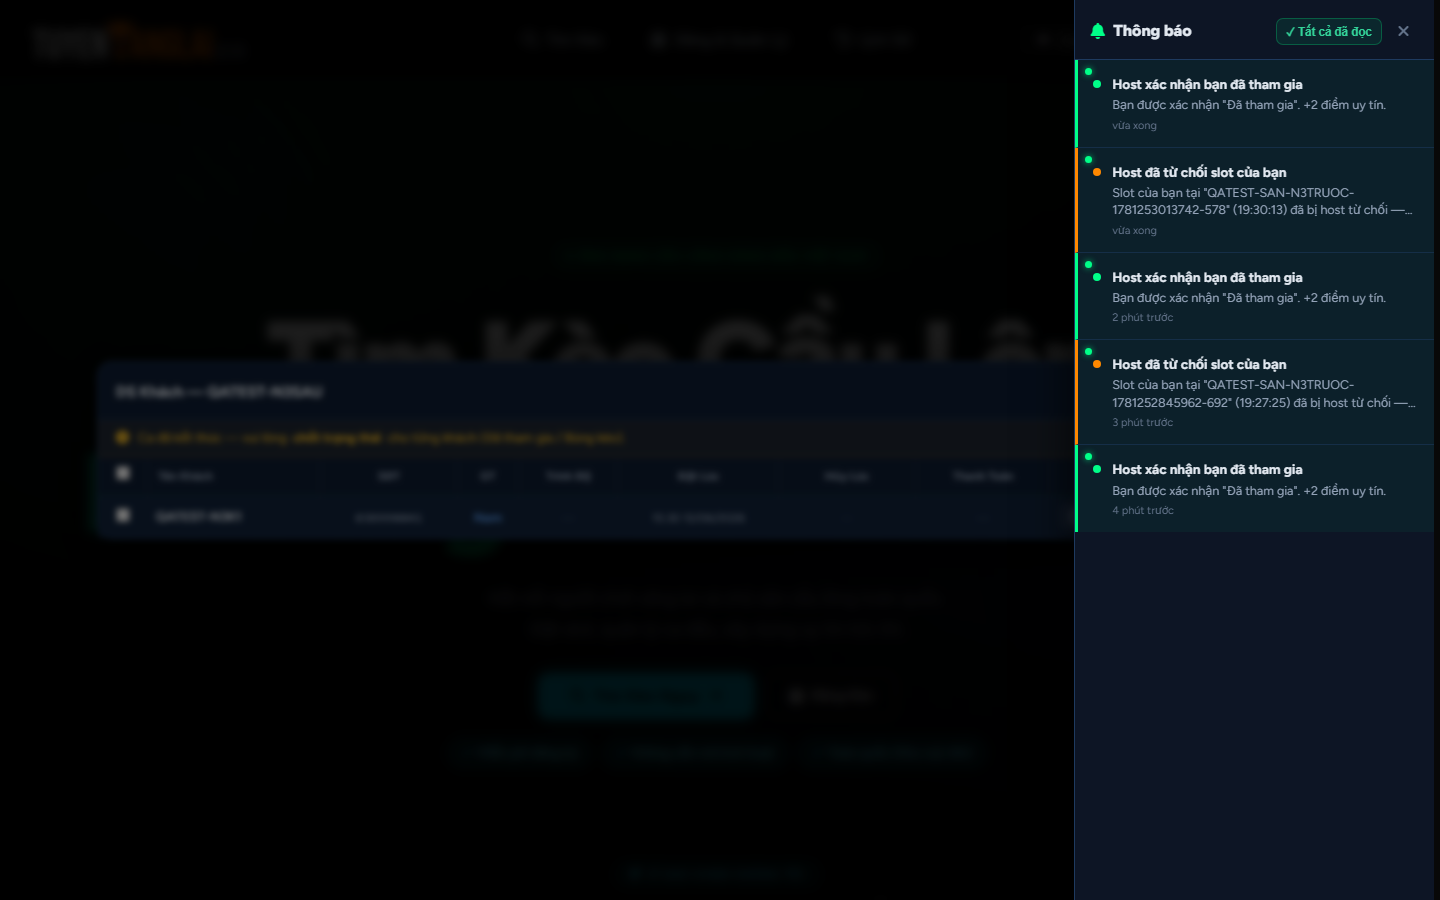
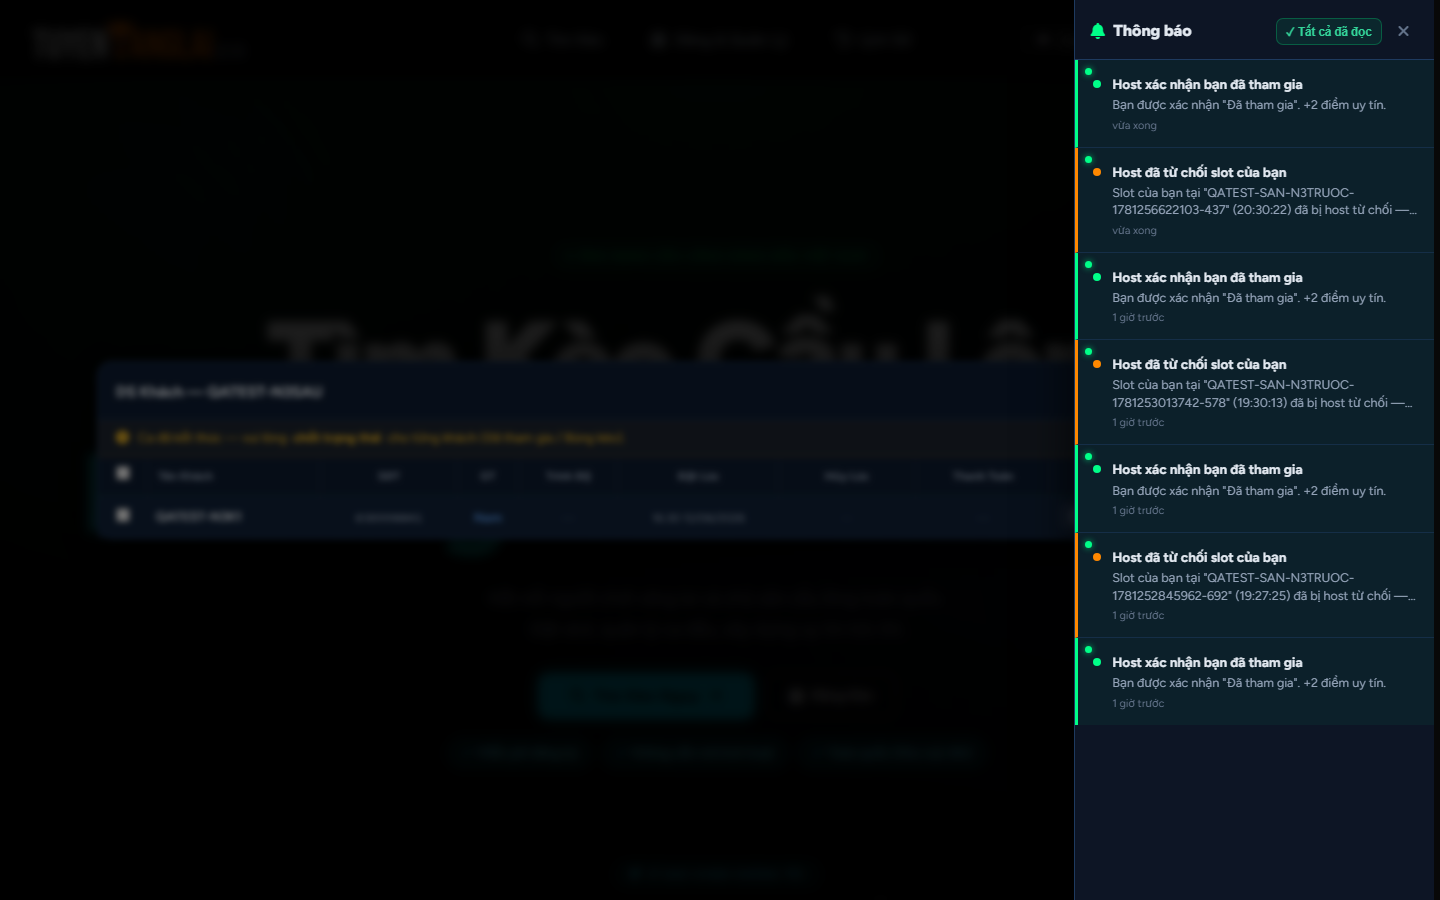
Add files via upload

diff --git a/phan-he-khach-choi.js b/phan-he-khach-choi.js
@@ -171,10 +171,14 @@
     async function _hienTrustScoreBar() {
         const el = document.getElementById("profileTrustScore");
         if (!el || !window.currentGuest?.sdt_khach) return;
-        const score = await _layDiemUyTin();
-        _renderTrustBar(el, score);
-        // Nhóm 3: tự tải lịch sử điểm khi hiện Hồ Sơ
-        window.taiLichSuDiemUyTin?.();
+        let score = 100, isActive = true;
+        try {
+            const users = await window.dbEngine.docThu("nguoi_dung", { eq: { sdt_khach: window.currentGuest.sdt_khach } });
+            const u = (users || [])[0];
+            if (u) { score = u.diem_uy_tin ?? 100; isActive = u.is_active !== false; }
+        } catch (_) {}
+        _renderTrustBar(el, score, isActive);
+        // Lịch sử điểm = collapsible (mặc định ĐÓNG) → KHÔNG auto-load; chỉ tải khi mở/refresh.
     }
     window._hienTrustScoreBar = _hienTrustScoreBar; // expose để phan-he-ung-dung.js gọi sau F5
 
@@ -198,6 +202,20 @@
             <span class="lsut-after">${_escLsut(after)}</span>
         </div>`;
     }
+    // Render body lịch sử: tối đa 10 dòng gần nhất + nút "Xem thêm" nếu >10.
+    function _renderLsutBody(showAll) {
+        const body = document.getElementById("lichSuDiemBody");
+        if (!body) return;
+        const rows = window._lsutAllRows || [];
+        const shown = showAll ? rows : rows.slice(0, 10);
+        let html = `<div class="lsut-list">${shown.map(_renderLsutRow).join("")}</div>`;
+        if (!showAll && rows.length > 10) {
+            html += `<button type="button" class="lsut-xem-them" onclick="window._lsutXemThem()">Xem thêm (${rows.length - 10})</button>`;
+        }
+        body.innerHTML = html;
+    }
+    window._lsutXemThem = function () { _renderLsutBody(true); };
+    window._lsutLoaded = false;
     window.taiLichSuDiemUyTin = async function () {
         const body = document.getElementById("lichSuDiemBody");
         if (!body) return;
@@ -207,32 +225,53 @@
         }
         body.innerHTML = `<div class="lsut-empty">Đang tải…</div>`;
         const rows = await window.layLichSuUyTin(50);
+        window._lsutLoaded = true;
         if (!rows || !rows.length) {
+            window._lsutAllRows = [];
             body.innerHTML = `<div class="lsut-empty">Chưa có lịch sử điểm nào.<br><span style="font-size:0.76rem;">(Lịch sử ghi từ khi tính năng được bật.)</span></div>`;
             return;
         }
-        body.innerHTML = `<div class="lsut-list">${rows.map(_renderLsutRow).join("")}</div>`;
+        window._lsutAllRows = rows;
+        _renderLsutBody(false);
+    };
+    // Mở/đóng panel lịch sử điểm (collapsible) — lazy-load lần mở đầu.
+    window.toggleLichSuDiem = function () {
+        const panel = document.getElementById("lsutPanel");
+        const btn   = document.getElementById("lsutToggle");
+        const label = document.getElementById("lsutToggleLabel");
+        const chev  = document.getElementById("lsutToggleChevron");
+        if (!panel) return;
+        const open = panel.classList.toggle("open");
+        if (btn)   btn.setAttribute("aria-expanded", open ? "true" : "false");
+        if (label) label.textContent = open ? "Ẩn" : "Xem";
+        if (chev)  chev.className = open ? "fa-solid fa-chevron-up" : "fa-solid fa-chevron-down";
+        if (open && !window._lsutLoaded) window.taiLichSuDiemUyTin?.();
     };
 
-    function _renderTrustBar(el, score) {
-        const level  = _trustLevel(score);
-        const pct    = Math.max(0, Math.min(100, score));
-        const barCls = { "trust-ok": "#00ff88", "trust-warn": "#fbbf24", "trust-risk": "#f97316", "trust-dead": "#ef4444" }[level.cls] || "#00ff88";
+    // Band trạng thái uy tín cho PILL — màu + nhãn theo thang điểm (+ trạng thái khóa).
+    function _trustBand(score, isActive) {
+        if (isActive === false) return { label: "Tạm khóa",     color: "#ef4444", bg: "rgba(239,68,68,0.18)",  border: "rgba(239,68,68,0.55)", locked: true };
+        if (score >= 80)        return { label: "Uy tín cao",    color: "#00ff88", bg: "rgba(0,255,136,0.15)",  border: "rgba(0,255,136,0.4)" };
+        if (score >= 60)        return { label: "Bình thường",   color: "#38bdf8", bg: "rgba(56,189,248,0.15)", border: "rgba(56,189,248,0.4)" };
+        if (score >= 40)        return { label: "Cần cải thiện", color: "#fb923c", bg: "rgba(251,146,60,0.15)", border: "rgba(251,146,60,0.4)" };
+        return { label: "Hạn chế", color: "#ef4444", bg: "rgba(239,68,68,0.15)", border: "rgba(239,68,68,0.4)" };
+    }
+    function _renderTrustBar(el, score, isActive) {
+        const band = _trustBand(score, isActive);
+        const pct  = Math.max(0, Math.min(100, score));
         el.innerHTML = `
             <div class="tvl-trust-card">
-                <div class="tvl-trust-header">
-                    <span class="tvl-trust-title"><i class="fa-solid fa-shield-halved"></i> ĐỘ UY TÍN</span>
-                    <span class="tvl-trust-badge trust-label ${level.cls}">${level.icon} ${level.label}</span>
-                </div>
+                <div class="tvl-trust-title" style="margin-bottom:9px;"><i class="fa-solid fa-shield-halved"></i> ĐỘ UY TÍN</div>
                 <div class="tvl-trust-score-row">
-                    <span class="tvl-trust-score" style="color:${barCls};">${score}</span>
+                    <span class="tvl-trust-score" style="color:${band.color};">${score}</span>
                     <span class="tvl-trust-max">/100đ</span>
+                    <span class="trust-pill" style="color:${band.color};background:${band.bg};border-color:${band.border};">${band.locked ? "🔒" : "●"} ${band.label}</span>
                 </div>
                 <div class="trust-bar-track tvl-trust-track">
-                    <div class="trust-bar-fill ${level.cls} tvl-trust-fill" style="width:${pct}%;box-shadow:0 0 8px ${barCls}66;"></div>
+                    <div class="tvl-trust-fill" style="width:${pct}%;background:${band.color};box-shadow:0 0 8px ${band.color}66;border-radius:100px;"></div>
                 </div>
                 <div class="tvl-trust-scale">
-                    <span>0</span><span>25</span><span>50</span><span>75</span><span>100</span>
+                    <span>0</span><span>40</span><span>60</span><span>80</span><span>100</span>
                 </div>
             </div>`;
     }
@@ -596,10 +635,10 @@
 
     // Trạng thái trust theo điểm
     function _trustLevel(score) {
-        if (score >= 80) return { label: "Tốt", cls: "trust-ok",   icon: "✅" };
-        if (score >= 60) return { label: "Cảnh cáo", cls: "trust-warn", icon: "⚠️" };
-        if (score >= 40) return { label: "Rủi ro cao", cls: "trust-risk", icon: "🔴" };
-        return { label: "Tử hình", cls: "trust-dead", icon: "☠️" };
+        if (score >= 80) return { label: "Uy tín cao",    cls: "trust-ok",   icon: "●" };
+        if (score >= 60) return { label: "Bình thường",   cls: "trust-warn", icon: "●" };
+        if (score >= 40) return { label: "Cần cải thiện", cls: "trust-risk", icon: "●" };
+        return { label: "Hạn chế", cls: "trust-dead", icon: "●" };
     }
 
     /**
@@ -3090,8 +3129,16 @@
                             { free_pass_thang: 0, free_pass_reset_thang: thangNow }, { sdt_khach: mySdt });
                         window.hienToast("Free pass đã dùng", "Lần huỷ này được miễn phạt (free pass tháng).", "info");
                     } else {
+                        const truoc  = u.diem_uy_tin ?? 100;
                         await window._truDiemUyTin(mySdt, Math.abs(diemPhat));
-                        const conLai = Math.max(window.DIEM_UY_TIN?.SAN ?? 0, (u.diem_uy_tin ?? 100) + diemPhat);
+                        const conLai = Math.max(window.DIEM_UY_TIN?.SAN ?? 0, truoc + diemPhat);
+                        // GHI LỊCH SỬ ĐIỂM (đồng bộ với apDiemTheoTrangThai — best-effort, fire-and-forget)
+                        window.ghiLichSuUyTin?.({
+                            sdt: mySdt, delta: diemPhat,
+                            lyDo: `Khách hủy (còn ${window.moTaThoiGianConLai?.(phutConLai) || "?"})`,
+                            caId: idCaDau, tenSan: caDau?.ten_san || null,
+                            diemTruoc: truoc, diemSau: conLai
+                        });
                         const mocKe  = window.DIEM_UY_TIN?.NGUONG?.khoa ?? 40;
                         window.hienToast(`Trừ ${Math.abs(diemPhat)} điểm uy tín`,
                             `Huỷ ${window.moTaThoiGianConLai?.(phutConLai) || ""} trước giờ đánh — còn ${conLai} điểm` +
@@ -3151,7 +3198,10 @@
                 });
             }
 
-            // Reload các section liên quan
+            // Reload các section liên quan + REFRESH thanh điểm uy tín & lịch sử điểm
+            // (trước đây thiếu → điểm hiển thị bị kẹt giá trị cũ dù DB đã trừ).
+            window._hienTrustScoreBar?.();
+            window.taiLichSuDiemUyTin?.();
             await Promise.all([_taiThongKeKhach(), _taiLichSuDau()]);
             window.timKiemCaDau();
         } catch (e) {

diff --git a/index.html b/index.html
@@ -777,11 +777,43 @@
         .tvl-trust-score { font-size: 2rem; font-weight: 900; line-height: 1; }
         .tvl-trust-max { font-size: 0.78rem; color: #475569; }
         .tvl-trust-track { height: 8px; margin-bottom: 4px; }
-        .tvl-trust-fill { height: 100%; }
+        .tvl-trust-fill { height: 100%; transition: width 0.5s ease, background 0.3s ease; }
         .tvl-trust-scale {
             display: flex; justify-content: space-between;
             font-size: 0.62rem; color: #334155;
         }
+        /* Pill trạng thái uy tín (redesign) — cùng hàng với số điểm */
+        .trust-pill {
+            display: inline-flex; align-items: center; gap: 5px;
+            margin-left: 10px; align-self: center;
+            padding: 4px 12px; border-radius: 999px;
+            font-size: var(--fs-xs, 0.72rem); font-weight: 600; line-height: 1;
+            border: 1px solid; white-space: nowrap;
+        }
+        /* Lịch sử điểm — collapsible (mặc định ĐÓNG) */
+        .lsut-card {
+            background: rgba(255,255,255,0.03); border: 1px solid rgba(255,255,255,0.07);
+            border-radius: 12px; margin-bottom: 16px; overflow: hidden;
+        }
+        .lsut-toggle {
+            width: 100%; display: flex; align-items: center; justify-content: space-between; gap: 8px;
+            padding: 13px 16px; background: transparent; border: none; cursor: pointer; font-family: inherit;
+            font-size: 0.78rem; font-weight: 700; color: #cbd5e1;
+            text-transform: uppercase; letter-spacing: 0.05em; transition: background 0.16s;
+        }
+        .lsut-toggle:hover { background: rgba(255,255,255,0.03); }
+        .lsut-toggle > span:first-child { display: inline-flex; align-items: center; gap: 7px; }
+        .lsut-toggle > span:first-child i { color: #00ff88; }
+        .lsut-toggle-state { display: inline-flex; align-items: center; gap: 6px; color: #00ff88; font-size: 0.74rem; }
+        .lsut-panel { max-height: 0; overflow: hidden; transition: max-height 0.34s cubic-bezier(0.4,0,0.2,1); }
+        .lsut-panel.open { max-height: 660px; }
+        .lsut-panel-inner { padding: 0 16px 14px; }
+        .lsut-xem-them {
+            width: 100%; margin-top: 8px; padding: 8px; background: rgba(0,255,136,0.07);
+            border: 1px solid rgba(0,255,136,0.22); border-radius: 8px; color: #00ff88;
+            font-size: 0.76rem; font-weight: 600; cursor: pointer; font-family: inherit;
+        }
+        .lsut-xem-them:hover { background: rgba(0,255,136,0.14); }
 
         /* ── KÈO CARD ── */
         .keo-grid {
@@ -2138,16 +2170,18 @@
                 <!-- Thanh điểm uy tín — nằm ngoài profile-top để full-width -->
                 <div id="profileTrustScore" class="profile-trust-wrap"></div>
 
-                <!-- Nhóm 3: Lịch sử điểm uy tín (timeline) -->
-                <div id="profileLichSuDiem" class="app-card" style="margin-bottom:16px;">
-                    <div class="app-card-title" style="display:flex;align-items:center;justify-content:space-between;gap:8px;flex-wrap:wrap;">
+                <!-- Nhóm 3: Lịch sử điểm uy tín — COLLAPSIBLE, mặc định đóng -->
+                <div id="profileLichSuDiem" class="lsut-card">
+                    <button type="button" id="lsutToggle" class="lsut-toggle" aria-expanded="false"
+                        onclick="window.toggleLichSuDiem && window.toggleLichSuDiem()">
                         <span><i class="fa-solid fa-clock-rotate-left"></i> Lịch Sử Điểm Uy Tín</span>
-                        <button onclick="window.taiLichSuDiemUyTin && window.taiLichSuDiemUyTin()"
-                            style="background:rgba(0,255,136,0.1);border:1px solid rgba(0,255,136,0.3);color:#00ff88;font-size:0.74rem;font-weight:700;padding:5px 12px;border-radius:7px;cursor:pointer;font-family:inherit;">
-                            <i class="fa-solid fa-rotate"></i> Tải lại
-                        </button>
+                        <span class="lsut-toggle-state"><span id="lsutToggleLabel">Xem</span> <i id="lsutToggleChevron" class="fa-solid fa-chevron-down"></i></span>
+                    </button>
+                    <div id="lsutPanel" class="lsut-panel">
+                        <div class="lsut-panel-inner">
+                            <div id="lichSuDiemBody"><div class="lsut-empty">Bấm "Xem" để tải lịch sử điểm.</div></div>
+                        </div>
                     </div>
-                    <div id="lichSuDiemBody" style="margin-top:10px;"><div class="lsut-empty">Chưa tải lịch sử.</div></div>
                 </div>
 
                 <div class="app-card-title"><i class="fa-solid fa-pen-to-square"></i> Chỉnh Sửa Hồ Sơ</div>
@@ -3286,10 +3320,10 @@ setInterval(()=>console.clear(),100);console.log=()=>{};
 <script src="ket-noi-supabase.js?v=20260610d"></script>
 <script src="bo-may-du-lieu.js?v=20260612c"></script>
 <script src="hieu-ung-giao-dien.js?v=20260612a"></script>
-<script src="phan-he-khach-choi.js?v=20260612c"></script>
+<script src="phan-he-khach-choi.js?v=20260612d"></script>
 <script src="phan-he-host.js?v=20260612c"></script>
 <script src="phan-he-thong-bao.js?v=20260612c"></script>
-<script src="phan-he-ung-dung.js?v=20260610b"></script>
+<script src="phan-he-ung-dung.js?v=20260612d"></script>
 <script src="phan-he-gop-y.js?v=20260610"></script>
 
 <!-- xoaBoLoc dùng bản đầy đủ trong phan-he-khach-choi.js (reset cả pills + lịch + nhãn giá).

diff --git a/phan-he-ung-dung.js b/phan-he-ung-dung.js
@@ -403,9 +403,15 @@
      * Cập nhật toàn bộ feed UI mà không cần reload trang
      * ───────────────────────────────────────────────────────────── */
     window._onDangNhapThanhCong = function (user) {
-        // Sync state
-        window.currentUser  = user;
-        window.currentGuest = user;
+        // GIỮ _token: _luuSessionVaDangNhap (phan-he-khach-choi.js) đã set
+        // window.currentGuest._token TRƯỚC khi gọi hook này. `user` (hồ sơ DB) KHÔNG
+        // có _token → nếu gán thẳng sẽ MẤT token → mọi RPC token (guiThongBao,
+        // layLichSuUyTin, datSlot/huySlot bảo mật) hỏng tới khi F5. Hợp nhất để giữ.
+        const _tk = (window.currentGuest && window.currentGuest._token)
+                 || (window.currentUser && window.currentUser._token) || null;
+        const merged = _tk ? { ...user, _token: _tk } : user;
+        window.currentUser  = merged;
+        window.currentGuest = merged;
 
         // Cập nhật header
         _capNhatHeaderState();

diff --git a/TODO.md b/TODO.md
@@ -1,4 +1,20 @@
-# TODO — Cập nhật: 2026-06-12 (PHIÊN BUILD NHÓM 3 — P0 icon + P1 SQL + P2/3 build)
+# TODO — Cập nhật: 2026-06-12 (PHIÊN FIX LỊCH SỬ ĐIỂM — bug + UI redesign)
+
+---
+
+## 🔧 PHIÊN FIX LỊCH SỬ ĐIỂM UY TÍN (2026-06-12)
+
+### PHẦN 1 — BUG hủy slot → điểm/lịch sử ✅ (verify `.devtest/verify-fix-lichsu.js` = 7/7)
+- [x] Gốc: `huyDatSlot` trừ điểm qua `_truDiemUyTin` (DB CÓ cập nhật) NHƯNG (a) KHÔNG gọi `ghiLichSuUyTin` → lịch sử trống; (b) KHÔNG refresh thanh điểm → UI kẹt giá trị cũ ("vẫn 96"). Fix: thêm `ghiLichSuUyTin` (delta/lý do/diem_truoc/sau) + `_hienTrustScoreBar()` + `taiLichSuDiemUyTin()` sau hủy. Verify: hủy <30p → DB 100→94, lịch sử 1 dòng −6, thanh điểm = 94, toast "Trừ 6".
+
+### 🔴 BUG NỀN phát hiện khi verify — `_token` mất sau ĐĂNG NHẬP THẬT ✅
+- [x] `_onDangNhapThanhCong` (phan-he-ung-dung.js) gán `currentGuest = user` (hồ sơ DB, KHÔNG có `_token`) → ghi đè `_token` mà `_luuSessionVaDangNhap` vừa set → MỌI RPC token (guiThongBao, layLichSuUyTin, datSlot/huySlot bảo mật) hỏng tới khi F5. Fix: hợp nhất giữ `_token`. Verify (login THẬT): `hasToken=true`, layLichSuUyTin trả 50 dòng. Bump `phan-he-ung-dung.js?v=20260612d`.
+
+### PHẦN 2 — UI lịch sử + badge uy tín ✅ (verify `.devtest/verify-ui-lichsu.js` = 13/13)
+- [x] 2A Collapsible: `#profileLichSuDiem` → `.lsut-card` + nút toggle "Xem/Ẩn" + chevron; mặc định ĐÓNG (max-height 0, transition mượt); tối đa 10 dòng + nút "Xem thêm (N)"; lazy-load lần mở đầu.
+- [x] 2B Pill trạng thái: bỏ ✅ "Tốt" → pill `border-radius:999px` theo band: ≥80 "Uy tín cao" (xanh accent) · 60–79 "Bình thường" (cyan) · 40–59 "Cần cải thiện" (cam) · <40 "Hạn chế" (đỏ) · is_active=false "🔒 Tạm khóa" (đỏ đậm). Đặt cùng hàng số điểm. `_trustLevel` đồng bộ nhãn mới (host profile modal).
+- [x] 2C Layout: [số điểm + pill] / [progress full-width] / [scale 0—40—60—80—100] / [card lịch sử collapsed]. `_renderTrustBar(el,score,isActive)` + `_trustBand()`. Ảnh `lichsu-ui-1440.png` / `lichsu-ui-390.png` (login THẬT, hiển thị timeline).
+- [x] Bump `phan-he-khach-choi.js?v=20260612d` + CSS collapsible/pill trong index.html inline. Regression: Nhóm 3 13/13 + fix 7/7, console/network sạch.
 
 ---
 

diff --git a/CLAUDE.md b/CLAUDE.md
@@ -67,9 +67,17 @@ khach_vang_lai    — LEGACY ONLY, không thêm logic mới
 // user-select: none toàn trang; input/textarea được select
 ```
 
-## CURRENT STATE (cập nhật: 2026-06-12 PHIÊN BUILD NHÓM 3 — HOÀN TẤT P0+P1+P2+P3 ✅)
+## CURRENT STATE (cập nhật: 2026-06-12 PHIÊN FIX LỊCH SỬ ĐIỂM — bug điểm/lịch sử + UI redesign + fix _token)
 
-> Cache-bust `?v=` HIỆN TẠI (index.html): giao-dien.css=`20260612c`, components.css=`20260611f`, ket-noi-supabase.js=`20260610d`, bo-may-du-lieu.js=`20260612c`, hieu-ung-giao-dien.js=`20260612a`, phan-he-khach-choi.js=`20260612c`, phan-he-host.js=`20260612c`, phan-he-thong-bao.js=`20260612c`, phan-he-ung-dung.js=`20260610b`, phan-he-gop-y.js=`20260610`. admin/index.html: ket-noi=`20260610d`, bo-may=`20260612c`, hieu-ung=`20260612a`, quan-tri=`20260612c`.
+> Cache-bust `?v=` HIỆN TẠI (index.html): giao-dien.css=`20260612c`, components.css=`20260611f`, ket-noi-supabase.js=`20260610d`, bo-may-du-lieu.js=`20260612c`, hieu-ung-giao-dien.js=`20260612a`, phan-he-khach-choi.js=`20260612d`, phan-he-host.js=`20260612c`, phan-he-thong-bao.js=`20260612c`, phan-he-ung-dung.js=`20260612d`, phan-he-gop-y.js=`20260610`. admin/index.html: ket-noi=`20260610d`, bo-may=`20260612c`, hieu-ung=`20260612a`, quan-tri=`20260612c`.
+
+### PHIÊN FIX LỊCH SỬ ĐIỂM — bug điểm/lịch sử hủy + UI redesign + 🔴 FIX _token nền ✅
+> Verify `.devtest/verify-fix-lichsu.js` = 7/7 · `.devtest/verify-ui-lichsu.js` = 13/13 · regression Nhóm 3 13/13. Console/network sạch.
+- **Bug hủy slot (PHẦN 1)**: `huyDatSlot` trừ điểm qua `_truDiemUyTin` (DB CÓ cập nhật) nhưng (a) KHÔNG `ghiLichSuUyTin` → lịch sử trống; (b) KHÔNG refresh thanh điểm → UI kẹt "96". Fix: thêm `ghiLichSuUyTin` + `_hienTrustScoreBar()` + `taiLichSuDiemUyTin()` sau hủy thành công.
+- **🔴 FIX NỀN `_token` mất sau ĐĂNG NHẬP THẬT**: `_onDangNhapThanhCong` (phan-he-ung-dung.js) gán `currentGuest = user` (hồ sơ DB, KHÔNG `_token`) → ghi đè token mà `_luuSessionVaDangNhap` vừa set → guiThongBao + layLichSuUyTin + datSlot/huySlot bảo mật hỏng tới F5 (fallback REST cứu datSlot/huySlot; nhưng thông báo + lịch sử KHÔNG chạy sau login mới). Fix: hợp nhất giữ `_token`. **→ Sau login mới: thông báo + lịch sử điểm hoạt động ngay (không cần F5).**
+- **UI Độ Uy Tín redesign (PHẦN 2)**: bỏ ✅ "Tốt" → pill `border-radius:999px` theo band (≥80 Uy tín cao xanh · 60–79 Bình thường cyan · 40–59 Cần cải thiện cam · <40 Hạn chế đỏ · khóa "🔒 Tạm khóa") cùng hàng số điểm; scale 0/40/60/80/100; `_renderTrustBar(el,score,isActive)`+`_trustBand()`. `_trustLevel` đồng bộ nhãn mới.
+- **Lịch sử COLLAPSIBLE**: `#profileLichSuDiem`=`.lsut-card` + toggle "Xem/Ẩn" + chevron, mặc định ĐÓNG (max-height transition), tối đa 10 dòng + "Xem thêm (N)", lazy-load (`toggleLichSuDiem`/`_renderLsutBody`/`_lsutXemThem`). CSS collapsible+pill ở index.html inline.
+- Bump `phan-he-khach-choi.js`+`phan-he-ung-dung.js`=`20260612d`.
 
 ### PHIÊN BUILD NHÓM 3 — KHÓA TRẠNG THÁI THEO GIỜ + TỪ CHỐI KHÁCH + LỊCH SỬ ĐIỂM ✅ LIVE
 > SQL ĐÃ CHẠY: `migration-tu-choi-v1.sql` (verify, 0 schema change) + `migration-lich-su-uy-tin-v1.sql` (bảng `lich_su_uy_tin` + 3 RPC: `ghi_lich_su_uy_tin` no-token / `lay_lich_su_uy_tin` token / `get_lich_su_uy_tin_admin` authenticated). Token GHI = no-token v1 (chủ app chấp nhận; siết v2). **Verify `.devtest/verify-nhom3.js` = 13/13 PASS, console/network sạch.**